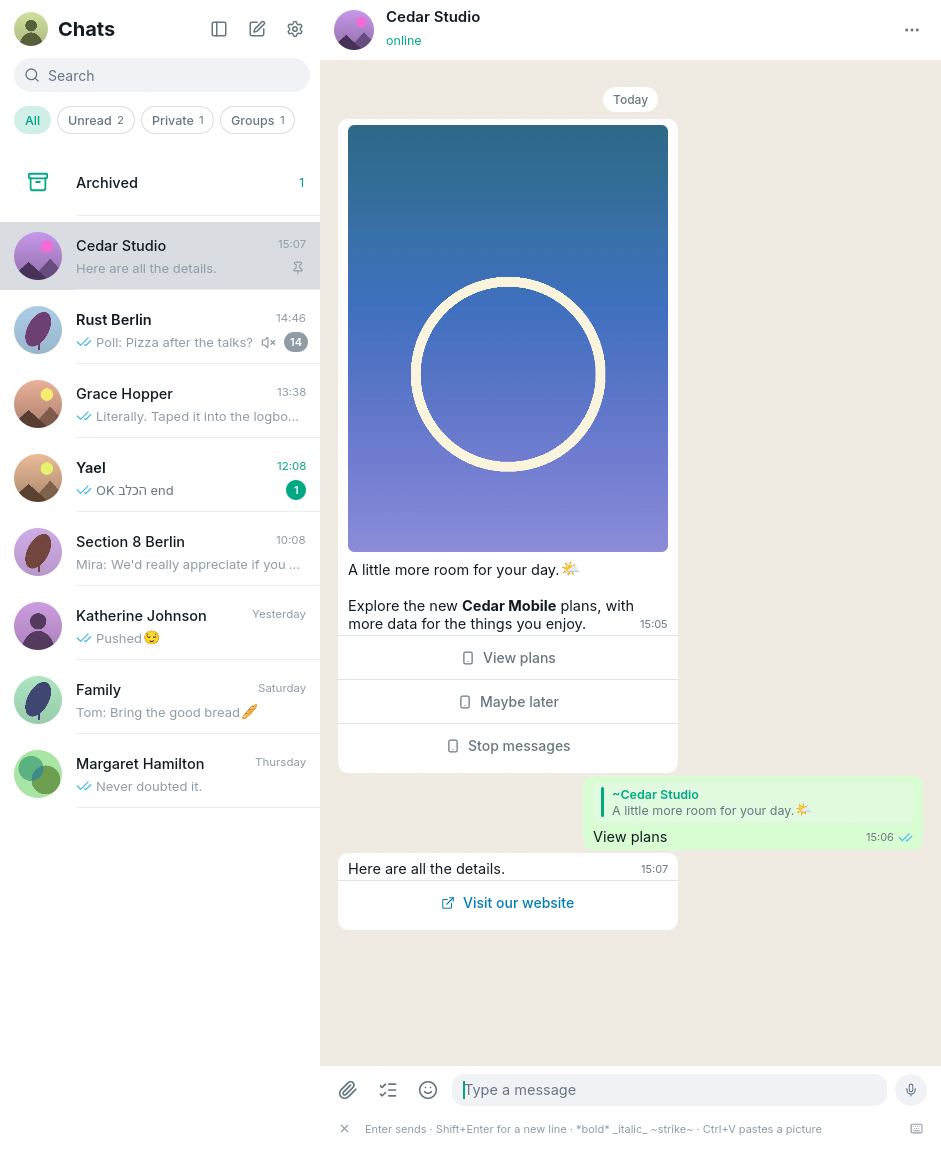
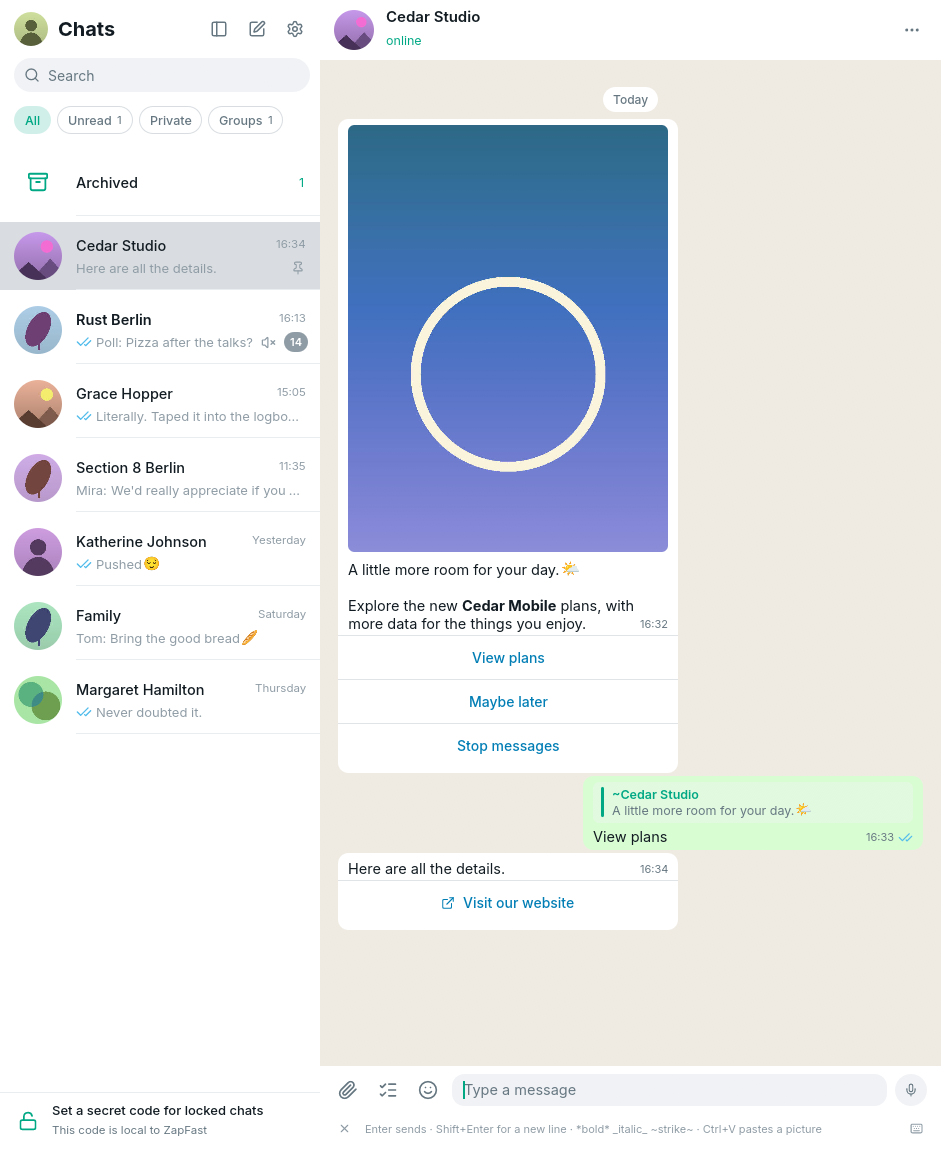
Document interactive actions and add synthetic UI screenshots
Describe supported responses and remaining protocol limits, list and poll dialogs, carousel controls and Shift-wheel input. Update the usage guides, architecture notes and reproducible demo captures in both themes.

diff --git a/README.md b/README.md
@@ -61,15 +61,21 @@ See **[zapfast.rocks](https://zapfast.rocks)** for downloads and guides.
 - **Safer desktop opening.** Links open only web pages or email addresses.
   Common documents and media open in their default apps; executable, script,
   and unrecognized attachment formats open their containing folder instead.
-- **Read interactive messages.** Business templates and button messages show their
+- **Use interactive messages.** Business templates and button messages show their
   image above the text and their options in separate rows below the timestamp.
-  Web-link buttons open in your browser; reply and form options have a phone icon
-  and must be used on your phone. Received interactive replies look like ordinary
-  replies. Lists and carousel text can also be read, selected, copied, and searched.
+  Reply buttons send the selected option with a quote of the original message.
+  Simple lists open a choice dialog, web links open in your browser, and copy-code
+  buttons copy to the clipboard. Unavailable actions have a phone icon and an
+  explanation. Lists group choices by section, with descriptions and keyboard support.
+  Carousels show separate cards in a horizontal strip, with images, web links,
+  and copy-code actions. Short carousels keep the timestamp beside their last
+  card. When more cards are offscreen, overlaid previous/next arrows move one
+  card at a time. **Shift + mouse wheel** and horizontal touchpad scrolling also
+  work over the cards, without a bottom scrollbar. Their text can be selected, copied, and searched.
   Images use the same download, retry, and automatic-download setting as photos.
   Previously unsupported messages are recovered from the local archive when their
   original message is available and they have not been edited, without relinking.
-  Other embedded attachments, carousel images, and templates containing only a
+  Other embedded attachments and templates containing only a
   reference to server-side text still need the phone.
 - **Send attachments with captions.** Paste a picture, drop files, or use the
   file picker. They stay in the composer until you send them or press Escape.
@@ -108,10 +114,14 @@ See **[zapfast.rocks](https://zapfast.rocks)** for downloads and guides.
 - **Polls.** Use the checklist button beside the paperclip to create a poll with
   2–12 answers. Turn off **Allow multiple answers** for a single-choice poll.
   Click an answer in a poll to vote; click a selected answer again to remove
-  it. Results and your selection are retained in the encrypted archive, including
-  votes received through phone history. Visible polls automatically request earlier
-  votes from your phone. If it is offline, results are labelled incomplete and the
-  request retries with backoff; no refresh button or relinking is needed.
+  it. Each option shows a result bar and a checkmark for your selection.
+  **Show votes** lists participants and vote times, updating as votes arrive.
+  Results and your selection are retained in the encrypted archive, including
+  votes received through phone history. New polls received live start at zero votes
+  without asking the phone for earlier results. Polls from history or offline
+  delivery automatically request earlier votes when visible. Until a usable
+  snapshot arrives, results are labelled incomplete and requests retry with backoff;
+  no refresh button or relinking is needed.
   Voting needs the original poll's key;
   if that key is missing, the message explains that voting is available on your
   phone. Creating polls in disappearing-message chats is not yet supported by
@@ -173,9 +183,9 @@ See **[zapfast.rocks](https://zapfast.rocks)** for downloads and guides.
 - Play ordinary videos in the app (they open in your player), or reply to
   a message with an attachment.
 - Calls, status posts, communities, newsletters, and group administration.
-- Send interactive button replies or submit forms; use those options on your
-  phone. Web-link buttons do work in ZapFast. Embedded videos and documents,
-  carousel images, and templates without readable text still need the phone.
+- Submit interactive forms, payments, shopping flows, or carousel selections.
+  Use these in WhatsApp Web or on your phone. Embedded videos and documents,
+  and templates without readable text also need another client.
 
 ## Installing
 
@@ -336,14 +346,31 @@ startup rollback; an unused legacy column is retained for 0.14 compatibility.
 ### Interactive messages
 
 Business messages keep their image, formatted text, timestamp, and options
-together in one bubble. Link buttons open in your browser. Options with a phone
-icon are readable here but must be selected on your phone; hovering explains
-this. Replies received from your other devices appear as ordinary quoted replies
-when the original message is included.
+together in one bubble. Reply buttons immediately send the selected response,
+quoting the original message so the business can recognize your choice. Simple
+list buttons open a centered dialog with sections, descriptions, and a full-row
+selection target; choosing an item sends that response. Hover highlights
+the full action row, following the card edges. Link buttons
+open your browser, and copy-code buttons copy the offered code locally.
+
+Carousels retain separate cards and images in a horizontally scrollable strip.
+Each card can open web links or copy codes; reply, calling, and shopping actions
+that require an unsupported carousel envelope stay unavailable.
+
+Reply buttons require a connection and a writable conversation. They pause while
+sending, and become available again if the send fails. Actions with a phone icon
+are unavailable in ZapFast; use WhatsApp Web or your phone. Hovering explains
+which restriction applies. Replies from other devices retain their quotes too.
 
 | Text and reply options | Image and website link |
 | --- | --- |
-| ![Offline demo of an interactive text message with separate option rows and a quoted reply](docs/screenshot-interactive.png) | ![Offline demo of an interactive image message with phone-only options and an active website link](docs/screenshot-interactive-media.png) |
+| ![Offline demo of an interactive text message with separate option rows and a quoted reply](docs/screenshot-interactive.png) | ![Offline demo of an interactive image message with working reply options and an active website link](docs/screenshot-interactive-media.png) |
+
+![Offline demo with a reply button, a session list, a copy-code action, and an unavailable form](docs/screenshot-interactive-actions.png)
+
+| Carousel cards | Poll participant details |
+| --- | --- |
+| ![Synthetic carousel with independent images, copy-code and web actions](docs/screenshot-carousel.png) | ![Synthetic poll results listing voters and vote times](docs/screenshot-poll-results.png) |
 
 These screenshots use synthetic offline chats. See the
 [usage guide](https://zapfast.rocks/using-zapfast/#interactive-messages) for
@@ -467,8 +494,13 @@ For deterministic theme screenshots, `--demo-page settings,omarchy` and
 palettes without changing the desktop theme.
 
 Use `--demo-page interactive` for text and button messages, or
-`--demo-page interactive-media` for messages with an image. Add `,light` to
-preview either in the light theme. Capture the app's own frame without desktop
+`--demo-page interactive-media` for messages with an image, and
+`--demo-page interactive-list` for a list message,
+`--demo-page interactive-list-dialog` for its grouped choice dialog, `--demo-page carousel`
+for a scrolling strip or `--demo-page carousel-pair` for two cards, and `--demo-page poll-empty`, `poll-voted`, or `poll-results`
+for voting states. Use `--demo-page interactive-actions` for reply, list, copy-code, and unavailable
+form actions. Add `,light` to
+preview any of these in the light theme. Capture the app's own frame without desktop
 content:
 
 ```sh

diff --git a/docs/_guide/using-zapfast.md b/docs/_guide/using-zapfast.md
@@ -44,35 +44,88 @@ upload it again.
 ## Interactive messages
 
 Business templates and button messages show their image above the formatted
-text, with options in separate rows below the timestamp. Lists and carousel
-text are readable too. You can select the message body, use **Copy text** to
+text, with options in separate rows below the timestamp. Lists open a grouped
+choice dialog, and carousels show separate image cards in a horizontal strip. You can select the message body, use **Copy text** to
 include its option labels, and find these messages through search.
 
 - **Web links** have an external-link icon. Click one to open it in your browser,
   or focus it with the keyboard and press Enter.
-- **Phone options** have a phone icon and muted text. Reply buttons, list choices,
-  calls, and forms must be used on your phone. Hover over an option to see its
-  explanation. ZapFast does not send a response when you click it.
-- **Replies from your other devices** appear as ordinary replies, with a quote
-  when the original message is included.
+- **Reply buttons** send the selected response immediately, quoting the original
+  message. ZapFast includes the option identifier so the business can recognize
+  the choice. Legacy buttons, hydrated templates, and native-flow quick replies
+  are supported.
+- **Simple lists** open a dialog with section headings and descriptions. Select an
+  item to send it. Legacy single-select lists and native-flow `single_select`
+  menus are supported. Opening or dismissing the dialog does not send anything.
+- **Copy-code buttons** copy the supplied code to your clipboard without sending
+  a message.
+- **Unavailable options** have a phone icon and muted text. Forms, payments,
+  shopping flows, calls, and carousel choices need WhatsApp Web or your phone.
+  Hover over an option to see its explanation. Unsupported or incomplete actions
+  never send a guessed text response.
+
+Replies require a connection and a writable chat, and cannot be sent to your own
+outgoing cards. During a send, the card waits for its result before accepting
+another reply. A failed send shows the normal failure status and allows another
+attempt.
+
+**Replies from your other devices** appear as ordinary replies, with a quote
+when the original message is included.
 
 Images follow the same automatic-download setting, size limit, and retry
 behavior as other photos. Click a downloaded image to open it.
 
 | Dark theme | Light theme |
 | --- | --- |
-| ![Synthetic business message with an image, three phone options, a quoted reply, and a website link in the dark theme](/screenshot-interactive-media.png) | ![The same synthetic interactive messages in the light theme](/screenshot-interactive-light.png) |
+| ![Synthetic business message with an image, three reply buttons, a quoted reply, and a website link in the dark theme](/screenshot-interactive-media.png) | ![The same synthetic interactive messages in the light theme](/screenshot-interactive-light.png) |
 
-Both screenshots use offline demo content.
+![Synthetic reply, list-selection, copy-code, and unavailable-form actions](/screenshot-interactive-actions.png)
+
+All screenshots use offline demo content.
 
 Previously unsupported messages are recovered automatically from the local
 archive when their original data is available and they have not been edited.
-You do not need to link again. Edited messages keep their current text.
+Existing cards gain their supported actions too. You do not need to link again.
+Edited messages keep their current text, and downloaded images stay available.
 
-Embedded videos and documents, carousel images, and templates containing only
-a reference to server-side text still need your phone. A **More content on your
-phone** note marks content ZapFast cannot display. Interactive messages cannot
-yet be forwarded from ZapFast.
+Embedded videos, documents, and templates containing only
+a reference to server-side text still need another client. A **More content in
+WhatsApp Web or on your phone** note marks content ZapFast cannot display.
+Interactive messages cannot yet be forwarded from ZapFast.
+
+### Lists, polls, and carousels
+
+Lists open a centered dialog, like **Show votes**, with the message's title,
+sections, option names, and descriptions.
+Click an option or focus it and press Enter to send that selection. Close the
+dialog or press Escape to leave without choosing.
+
+Poll options show a result track even before votes arrive, and your selection
+has a checkmark. **Show votes** opens participant names and vote times. If phone
+history is still arriving, the dialog explains that earlier votes may be missing.
+New polls received live start at zero without requesting earlier votes. Polls
+received from history or while offline still recover results from the phone.
+Polls archived by older builds may also need this recovery because those builds
+did not retain whether the poll originally arrived live.
+
+Carousel messages keep each card's image, text, and actions together. The timestamp
+sits below the last card when the strip fits. When cards extend beyond the view,
+round previous/next arrows appear over the strip. Click an arrow or focus it and
+press Enter to move one card at a time. The arrows disappear at their respective
+ends; **Shift + mouse wheel** and horizontal touchpad scrolling remain available
+over the cards, without a bottom scrollbar. Image downloads follow your automatic-download
+setting. Web links and copy-code buttons work; calls and unsupported carousel
+reply actions remain unavailable.
+
+| Carousel cards | Poll result details |
+| --- | --- |
+| ![Synthetic carousel with separate image cards and local actions](/screenshot-carousel.png) | ![Synthetic poll results showing participants and vote times](/screenshot-poll-results.png) |
+
+| Grouped list dialog | Poll selection and results |
+| --- | --- |
+| ![Synthetic list dialog with section headings, descriptions and option selectors](/screenshot-interactive-list.png) | ![Synthetic poll with vote counts, result tracks and the selected answer](/screenshot-poll-voted.png) |
+
+![Synthetic carousel cards in the light theme](/screenshot-carousel-light.png)
 
 ## Voice messages
 

diff --git a/docs/interactive-message-actions.md b/docs/interactive-message-actions.md
@@ -1,0 +1,87 @@
+# Interactive message actions
+
+This note records the compatibility boundary for PR #113 and issue #28.
+
+## Protocol support
+
+ZapFast uses the pinned whatsapp-rust sender. Its
+[outgoing message classifier](https://github.com/oxidezap/whatsapp-rust/blob/ae3cefd86065872a577bbd0ad5ee21b60c86c616/wacore/src/send/classify.rs)
+explicitly handles template replies, button responses, list responses, and
+native-flow responses. The application constructs those library message types
+and uses its existing quote, encryption, send, receipt, and expiration paths.
+It does not emulate browser clicks or send the displayed label as plain text.
+
+Synthetic tests check the supported response types against the pinned
+whatsapp-rust classifier. The worker resolves each selection against the
+original archived message before constructing its quoted response.
+
+## Supported actions
+
+| Received action | ZapFast behavior |
+| --- | --- |
+| Legacy response button | `ButtonsResponseMessage`, preserving selected id and display text |
+| Hydrated quick-reply template | `TemplateButtonReplyMessage`, preserving selected id and original index |
+| Native-flow `quick_reply` | `InteractiveResponseMessage` with the selected id and label |
+| Legacy single-select list | Choice dialog followed by `ListResponseMessage` with the row id |
+| Native-flow `single_select` | Choice dialog followed by a native-flow response with the row id |
+| HTTP(S) URL | Open the validated URL in the system browser |
+| Native-flow `cta_copy` | Copy the supplied code locally, without a message send |
+| Calls, forms, payments, shopping flows, carousel reply choices, unknown or incomplete actions | Unavailable, with an explanation pointing to WhatsApp Web or the phone |
+
+Choice indices in the UI refer only to the displayed, validated options.
+The worker re-reads the original archived protobuf to resolve protocol ids.
+Response parameters contain only the chosen id, without unrelated JSON fields. Outgoing cards, edited or
+revoked sources, invalid indices, and read-only conversations cannot produce
+an interactive response. In-flight sends prevent repeated clicks until the
+ordinary send result arrives; a failure permits another attempt.
+
+The version-4 derived-content backfill upgrades existing cards and legacy
+placeholders without relinking, preserving local image paths (including each carousel card), edits, reactions,
+read state, and original protobuf. No schema migration is required.
+
+## Verification
+
+Carousel navigation uses overlaid previous/next arrows instead of a bottom
+scrollbar. It advances by one card, hides controls at the ends, and retains
+Shift + mouse-wheel and horizontal touchpad input. Synthetic UI tests cover both ends and the
+middle, keyboard navigation, and preventing clicks from reaching card actions.
+
+Tests use synthetic messages and cover serialization, the pinned library's
+outgoing classification, quotes and expiration, invalid actions, index mapping,
+archive recovery, pointer and keyboard input, clipboard output, and send-state
+release. Regression tests also cover mixed and filtered option indices, repeated
+clicks, unrelated send results, per-card image paths, latest voter details, and
+zero-vote options remaining visible in the results dialog, live empty polls staying
+out of history recovery, offline/PDO/replayed polls retaining recovery, and list
+dialog cancellation or connection changes never sending a reply. Demo screenshots use `interactive`, `interactive-media`, and
+`interactive-actions`, and `interactive-list-dialog`, with `,light` for the light theme.
+
+These checks do not establish live compatibility with every business bot.
+End-to-end validation requires the user to click a real received option and
+confirm both the outgoing quoted response and the business's follow-up. No
+personal archive contents or screenshots belong in fixtures or documentation.
+
+## Native interface
+
+| Type | ZapFast behavior |
+| --- | --- |
+| List | Centered dialog with a close control, section headings, descriptions, option selectors, full-row hover, keyboard activation, and a bounded scrolling area |
+| Poll | Ballot with persistent result tracks, a checkmark for the selected answer, and Show votes; the results dialog lists known participants and vote times, with an incomplete-history notice when needed |
+| Carousel | Horizontal card strip with independent images and actions, a separate image cache per card, navigation arrows, and horizontal scrolling; web links and copy-code actions work, unsupported replies/calls/flows remain disabled |
+
+Poll result details are derived from each participant's latest decrypted vote.
+Withdrawals and undeciphered updates do not appear as voters. Names and vote
+times reach the interface, while keys and encrypted payloads stay in the worker.
+Details are not serialized into the message content JSON. This extends the
+existing vote archive without creating a second source of truth.
+
+Carousel images use the existing whatsapp-rust media downloader and retry path,
+with the original message id and an explicit card index. Opening an image uses
+the usual local file handler. Calls and carousel reply envelopes have not been
+implemented merely because fields exist in the protobuf.
+
+## Synthetic interface examples
+
+![Grouped list dialog](screenshot-interactive-list.png)
+![Independent carousel cards](screenshot-carousel.png)
+![Poll participant results](screenshot-poll-results.png)

diff --git a/AGENTS.md b/AGENTS.md
@@ -46,15 +46,32 @@ protocol. These notes are for coding agents and new contributors.
   a disposable archive. Tests use fixtures and mock credentials only.
 - `src/model.rs` holds the app's own types. Views never touch a protobuf;
   the worker translates in `classify()` and `parse_conversation()`.
+- Interactive messages are parsed in `backend/worker/interactive.rs`. Views receive
+  labels and local capabilities, never protocol option ids. `ReplyInteractive`
+  carries only the archived message id and visible button/choice indices;
+  `interactive/replies.rs` re-resolves them from raw protobuf and uses the library's
+  quote context and normal send path. Only known quick replies and single-select
+  lists may send responses. Copy-code actions stay local. Do not turn arbitrary
+  flow JSON into replies or fall back to sending its visible label as plain text.
+  The versioned archive backfill must preserve downloaded image paths and edits.
+  Carousel cards retain independent images and local actions. Download commands
+  carry an optional card index, and the archive stores each image path separately.
+  The version-4 backfill preserves those paths when rebuilding derived content.
+  See [compatibility notes](docs/interactive-message-actions.md) for response
+  families, source references, and live-test limits.
 - Poll creation, voting, and decryption use whatsapp-rust's `Client::polls()`.
   `backend/worker/polls.rs` retains the original creator identity and key in the
   encrypted archive; `archive/polls.rs` keeps each voter's latest timestamp and
   message id, including encrypted updates whose parent has not arrived yet.
   History replay must not undo a newer vote or withdrawal. Decryption runs in
-  batches of eight, with failures retried after reconnecting. The interface only
-  receives option counts and its own selection, never keys or protobufs. Visible
-  polls request phone history automatically, anchored after the creation message
-  so the response includes its vote snapshot. `poll_history.rs` serializes these
+  batches of eight, with failures retried after reconnecting. The interface receives
+  option counts, its own selection, and the latest decrypted voter names/times
+  for the results dialog, never keys or protobufs. New, non-offline poll creations
+  received through normal delivery start with a complete zero-vote baseline,
+  persisted in `poll_history`. PDO recovery and
+  duplicate deliveries do not establish that baseline. Visible polls without a
+  complete baseline request phone history automatically, anchored after the
+  creation message so the response includes its vote snapshot. `poll_history.rs` serializes these
   requests and retries from 30 seconds to 15 minutes without an interface timer.
   History request timestamps are Unix seconds: the library argument and wire
   field misleadingly end in `Ms`. Do not multiply archive timestamps by 1,000.

diff --git a/docs/_guide/what-is-zapfast.md b/docs/_guide/what-is-zapfast.md
@@ -29,9 +29,9 @@ RAM, compared with 1.13 GB for WhatsApp Web and its Chromium processes.
   You can add captions to attachments before sending them.
 - **Plays media in the chat.** Voice messages, GIFs, and animated stickers
   play in place. The required audio and video decoders are built in.
-- **Reads interactive messages.** Business templates show their text, images,
-  and options. Web-link buttons open in your browser, and interactive replies
-  appear as ordinary replies. [See examples and limitations](/using-zapfast/#interactive-messages).
+- **Uses interactive messages.** Business templates show their text, images,
+  and options. Reply buttons and simple lists send the selected response with
+  a quote, web links open in your browser, and copy-code buttons use the clipboard. [See examples and limitations](/using-zapfast/#interactive-messages).
 - **Uses consistent names.** Choose address-book names or public WhatsApp
   profile names for chats, mentions, replies, and notifications.
 - **Runs in the background.** Closing the window keeps ZapFast in the system
@@ -49,10 +49,10 @@ ZapFast does not currently support:
   messages and GIFs do play in place.
 - Replying with an attachment (replying with text or a voice message
   works).
-- Sending interactive button replies, submitting forms, or forwarding
-  interactive messages. Use those options on your phone. Embedded videos and
-  documents, carousel images, and templates without readable text also need
-  the phone.
+- Interactive forms, payments, shopping flows, carousel selections, or forwarding
+  interactive messages. Use these in WhatsApp Web or on your phone. Embedded
+  videos, documents, and templates without readable text
+  also need another client.
 - Colour emoji on Windows: Segoe UI Emoji is not a bitmap font, so emoji
   stay monochrome there for now.
 

diff --git a/PRODUCT.md b/PRODUCT.md
@@ -22,7 +22,12 @@ separated action rows.
 
 - Keep messages readable and the composer immediately available.
 - Use existing shared controls and theme colours consistently.
-- Make working actions and unavailable actions distinguishable.
+- Make working actions and unavailable actions distinguishable. Reply buttons
+  send immediately, lists open dialogs with grouped choices, and copy-code actions stay local.
+  Carousels keep independent cards in a horizontal strip. Poll results disclose
+  known voters and vote times, preserving incomplete-history notices.
+  Disable only unsupported actions or replies blocked by connection, chat
+  permissions, or an in-flight send.
 - Preserve selection, copying, emoji, links, and narrow-window usability.
 - Validate screenshots with synthetic offline content only.
 
